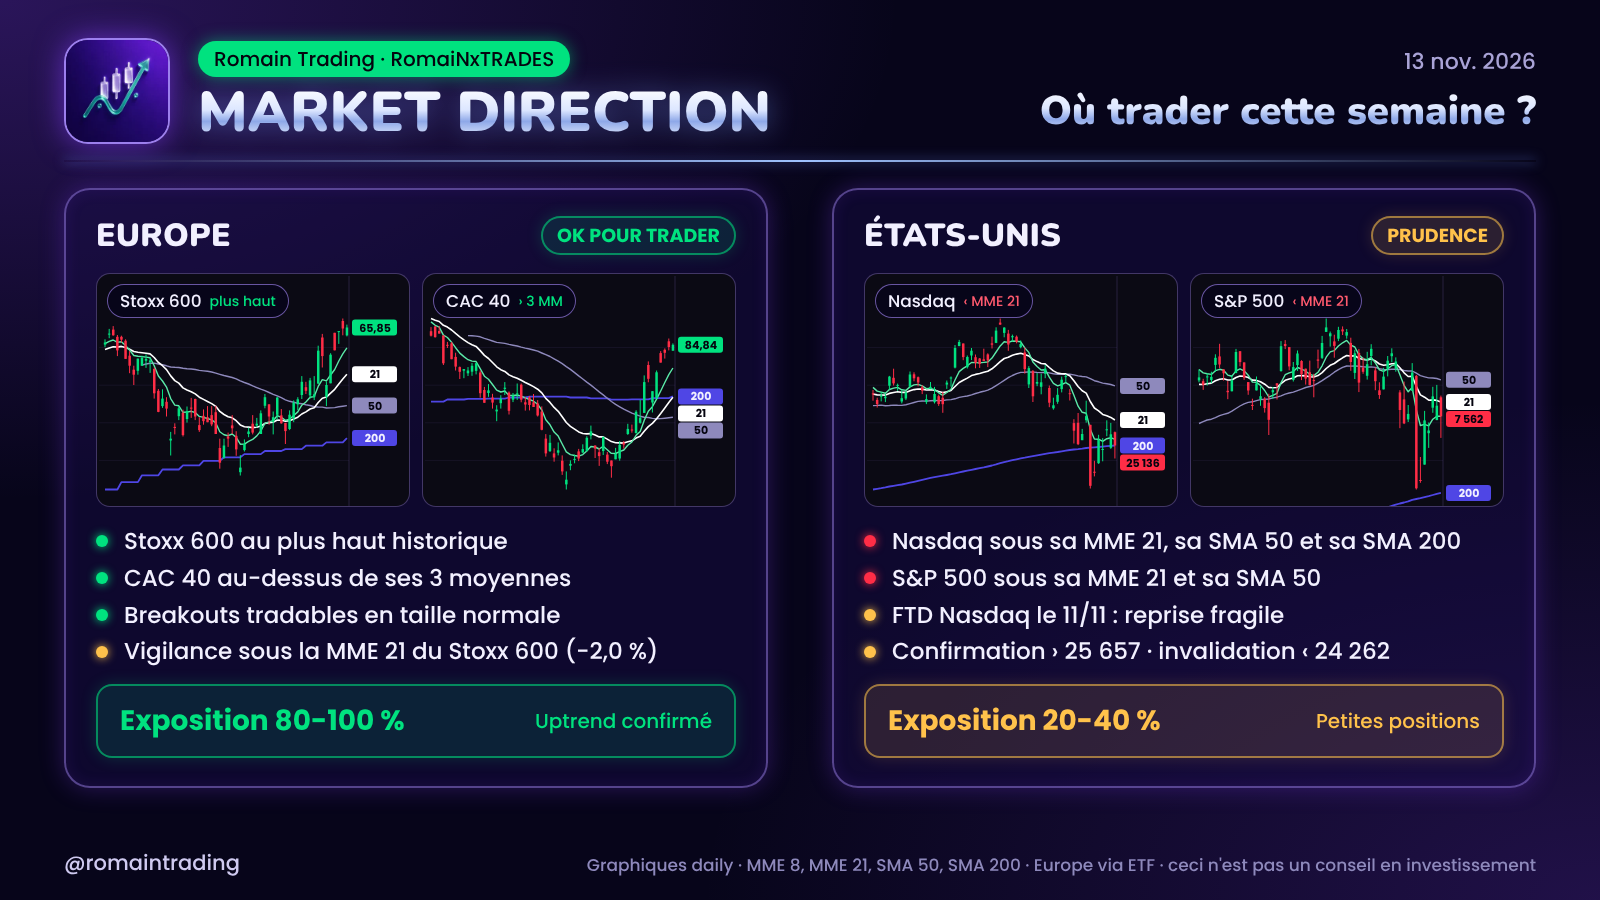
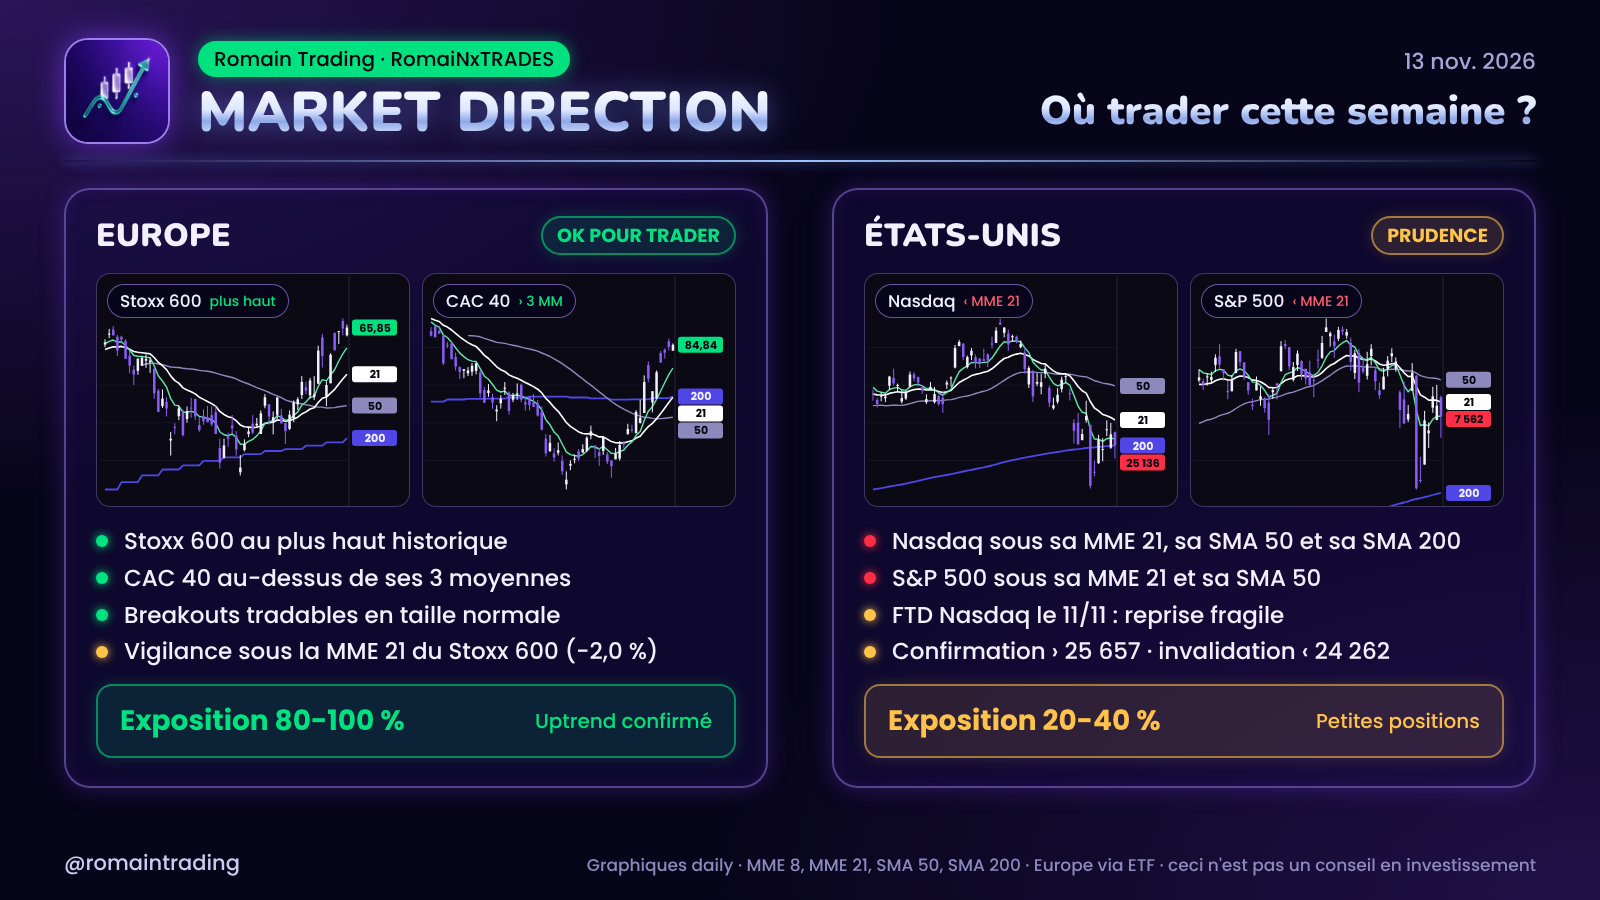
Market Direction : bougies blanches et violettes
Claude-Session: https://claude.ai/code/session_0199gXjNujDjYsWcCUt7nZcV

diff --git a/tools/render_md.py b/tools/render_md.py
@@ -212,7 +212,7 @@ def chart(a, W=300, H=230):
     line('e8', '#5BE9A8', 1.4)
     for i, r in enumerate(rows):
         o, h, l, c = r[1:5]
-        up = c >= o; col = '#00E27F' if up else '#FF2D46'
+        up = c >= o; col = '#F2F0FF' if up else '#8B5CF6'
         s.append(f'<line x1="{X(i):.1f}" x2="{X(i):.1f}" y1="{Y(h):.1f}" y2="{Y(l):.1f}" stroke="{col}" stroke-width="1"/>')
         y0, y1 = sorted((Y(o), Y(c)))
         s.append(f'<rect x="{X(i) - bw / 2:.1f}" y="{y0:.1f}" width="{bw:.1f}" height="{max(y1 - y0, 1):.1f}" fill="{col}"/>')
